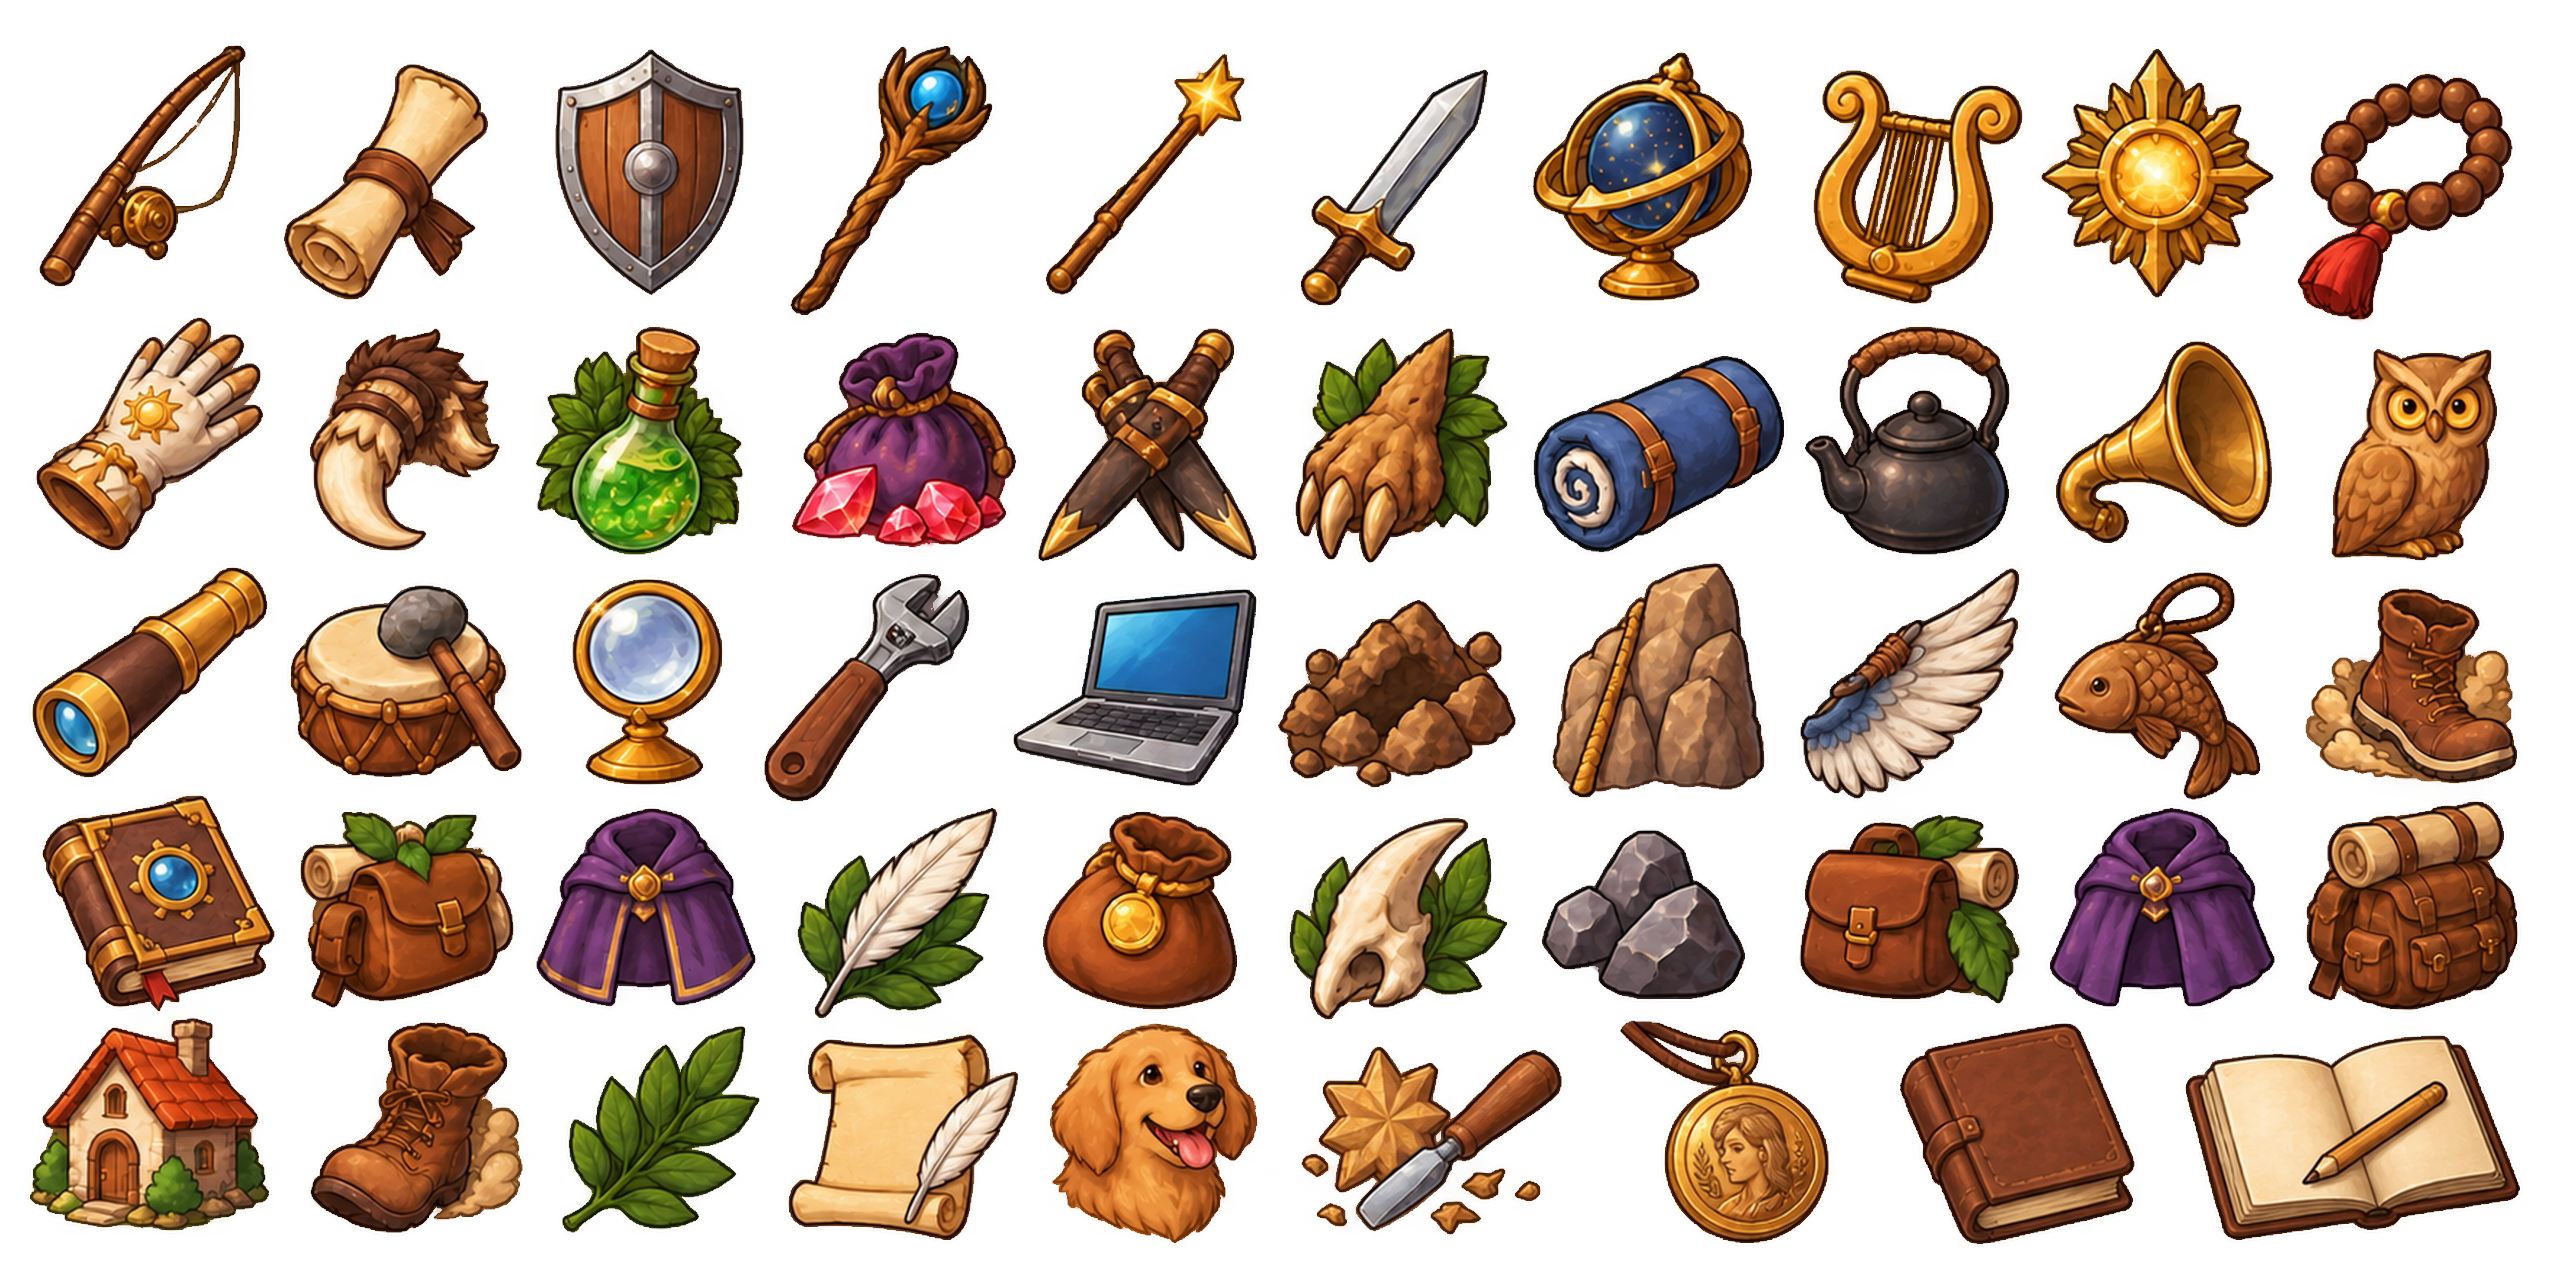
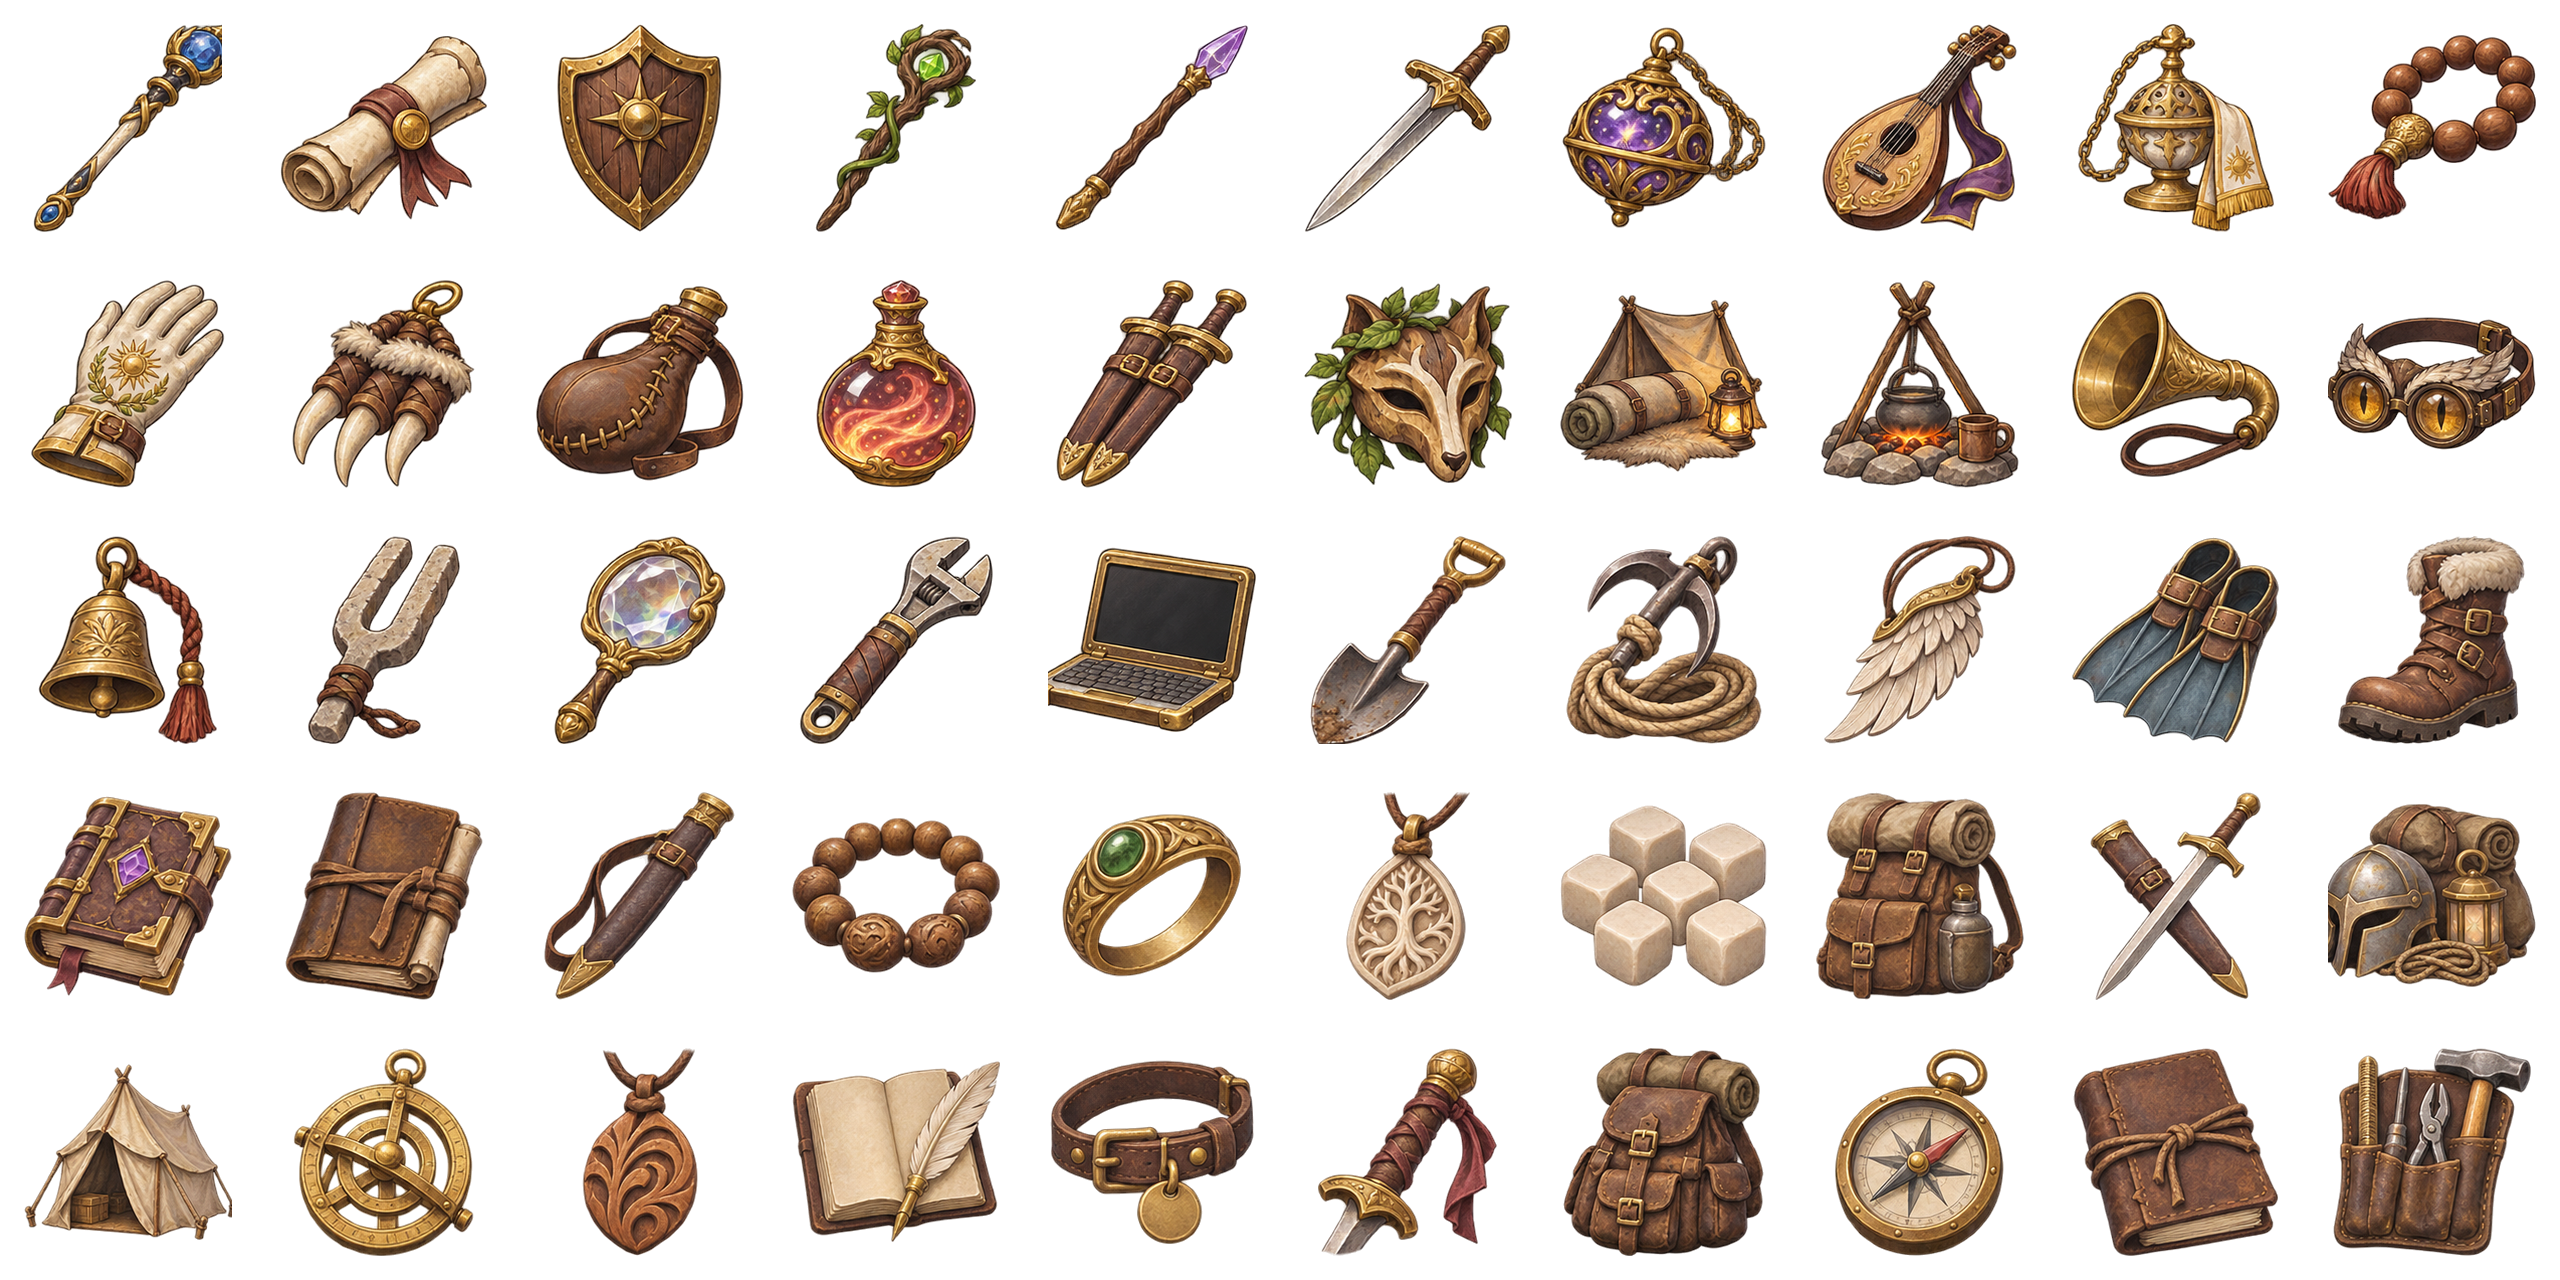
grid: G01 v3

diff --git a/art-tasks/grid/GRID.md b/art-tasks/grid/GRID.md
@@ -25,7 +25,7 @@ Species portraits (90) are postponed.
 
 | Sheet | Cells | Content | Status |
 |---|---|---|---|
-| G01 | 100 | app UI icons (replace every line icon) | claimed by codex-grid-session 2026-11-02T14:58:39.436242+00:00 |
+| G01 | 100 | app UI icons (replace every line icon) | needs review: cells 21, 96 (die geometry; hilt crop); v3 alpha and margins pass |
 | G02 | 100 | app UI icons, then species emblems | open (redo v3: match old grid style, four 1254 square generates, rule 9) |
 | G03 | 100 | species emblems and icons, features, items | needs review: cells 39, 42, 50 (v3; physical-prop check after retry) |
 | G04 | 93 | items, library, rules, subclass and background emblems, vehicles, objects | claimed by Codex 2026-11-02 15:09 UTC |
